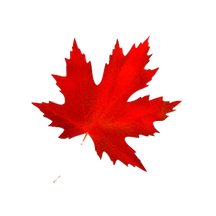
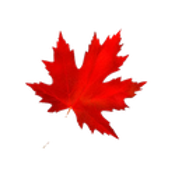
Smaller leaves

diff --git a/index.html b/index.html
@@ -6,8 +6,9 @@
         <style>
 
             body{
-                background-color: rgba(243, 60, 5, 0.961);
+                background-color: rgba(8, 45, 7, 0.961);
                 margin: 0px;
+                overflow: hidden;
             }
             #topBanner{
                 background-image: url("images2/head.png");
@@ -15,11 +16,10 @@
             }
             h1{
                 color: rgb(106, 244, 106);
-               
                 text-align: center;
                 font-size: 50px;
                 margin-top: 0%;
-                padding-top: 0%;
+                padding-top: 20px;
                 height: 100px;
             }
             h2{
@@ -45,7 +45,7 @@
             }
             #rightSide {
                 left: 50%;
-                border-left: 1px solid rgb(163, 71, 17);
+                border-left: 5px solid rgba(57, 19, 5, 0.961);
                 margin-right: 10px;
                
             }
@@ -59,12 +59,6 @@
                 height: 50px;
                 border-radius: 15px;
                 font-size: 20px;
-            }
-
-            #basket{
-                position: absolute;
-                left: 900px;
-                top: 20px;
             }
 
             .modal {
@@ -108,7 +102,7 @@
     <!-- Take a look at the code . But since I'm redoing the code to make the game more fun it might look a bit unformatted with lots of codes commented out.   -->
 
 
-    <body onload="selectLevel()">  
+    <body onload="startGame()">  
         <!-- Audio -->
         <audio id="gamemusic">
             <source src="gamemusic.mp3" type="audio/mp3">
@@ -124,7 +118,7 @@
 
         <!-- Top banner -->
         <div id="topBanner">
-            <h1>Pick a Leaf</h1>\
+            <h1>Pick a Leaf</h1>
             <div id="buttons">
                 <button id="startButton" onclick="startGame()">Restart</button>
                 <select id="level" name="level" onChange="selectLevel()">
@@ -184,8 +178,8 @@
                     const leaf = document.createElement('img');
                     leaf.src = leaves[randomleafIdx];
                     
-                    let randomTop = Math.floor(Math.random() * 400)  + 1;
-                    let randomLeft = Math.floor(Math.random() * 400) + 1;
+                    let randomTop = Math.floor(Math.random() * 300)  + 1;
+                    let randomLeft = Math.floor(Math.random() * 500) + 1;
                     leaf.style.top = randomTop + 'px' ;
                     leaf.style.left = randomLeft + 'px' ;
                     theLeftSide.appendChild(leaf);
